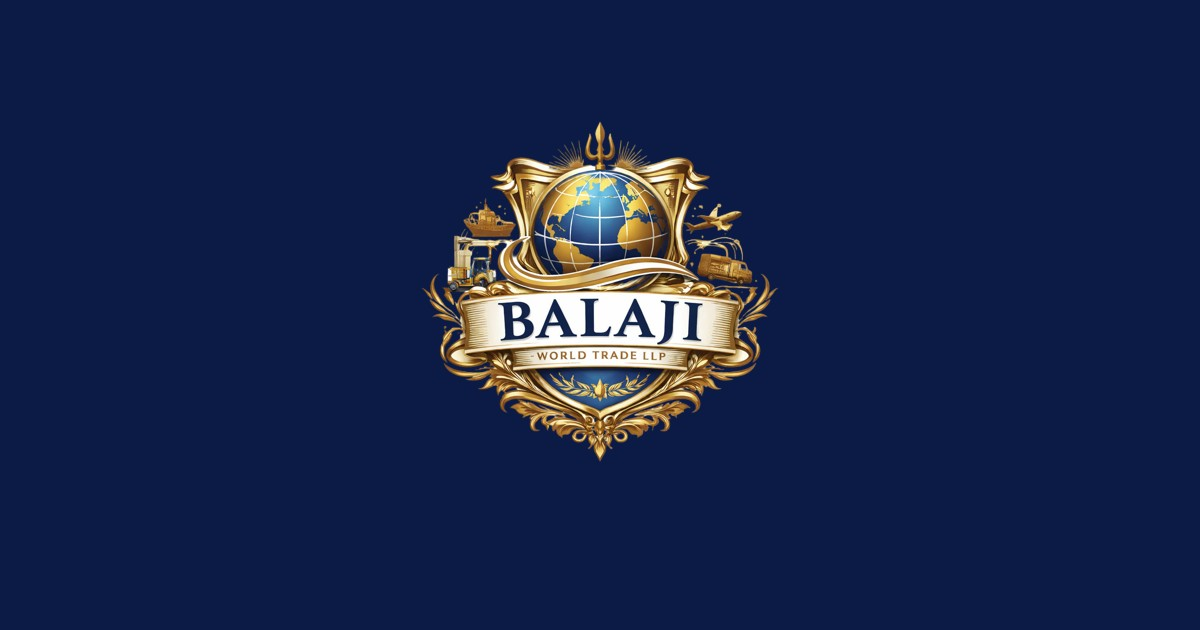
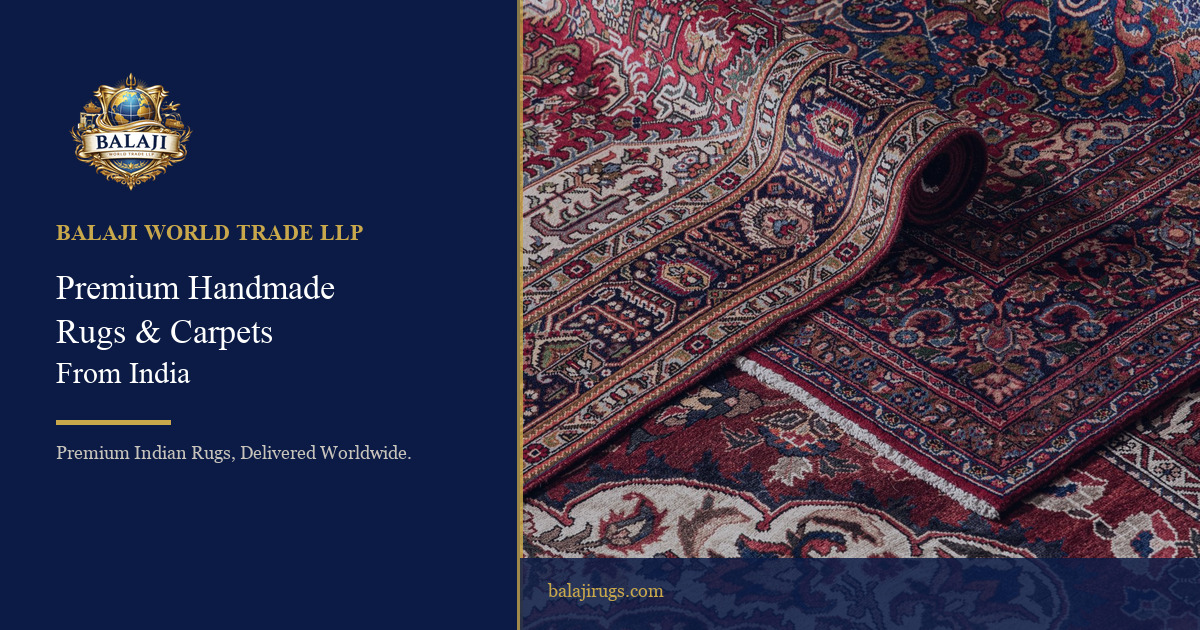
Update layout metadata for improved SEO and branding. Refine site title, description, and Open Graph properties to reflect Balaji World Trade LLP. Update og-image URL for consistency. Replace static URLs with dynamic siteUrl variable.

diff --git a/app/layout.tsx b/app/layout.tsx
@@ -22,10 +22,14 @@ const playfairDisplay = Playfair_Display({
 const googleSiteVerification = process.env.NEXT_PUBLIC_GOOGLE_SITE_VERIFICATION
 const bingSiteVerification = process.env.NEXT_PUBLIC_BING_SITE_VERIFICATION
 
+const siteUrl = 'https://balajirugs.com'
+const ogImageUrl = `${siteUrl}/og-image.jpg`
+
 export const metadata: Metadata = {
-  metadataBase: new URL('https://balajirugs.com'),
-  title: 'Premium Handmade Rugs & Carpets From India | Balaji Rugs',
-  description: 'Balaji Rugs exports premium handmade rugs and carpets from India. Explore hand knotted, wool, jute, kilim, flatweave, and custom rugs worldwide.',
+  metadataBase: new URL(siteUrl),
+  title: 'Balaji World Trade LLP | Premium Handmade Rugs & Carpets From India',
+  description:
+    'Luxury handmade rugs and carpets crafted in India and delivered worldwide. Explore hand knotted, wool, kilim, flatweave, jute, and custom rugs.',
   keywords: [
     'handmade rugs exporter india',
     'handmade carpets exporter india',
@@ -46,28 +50,31 @@ export const metadata: Metadata = {
     'premium handmade rugs and carpets exporter from India',
   ],
   alternates: {
-    canonical: 'https://balajirugs.com',
+    canonical: siteUrl,
   },
   openGraph: {
-    title: 'Premium Handmade Rugs & Carpets From India',
-    description: 'Luxury handmade rugs and carpets crafted in India and delivered worldwide.',
-    url: 'https://balajirugs.com',
+    title: 'Balaji World Trade LLP | Premium Handmade Rugs & Carpets From India',
+    description:
+      'Luxury handmade rugs and carpets crafted in India and delivered worldwide.',
+    url: siteUrl,
+    siteName: 'Balaji World Trade LLP',
+    locale: 'en_US',
     type: 'website',
-    siteName: 'Balaji Rugs',
     images: [
       {
-        url: '/og-image.jpg',
+        url: ogImageUrl,
         width: 1200,
         height: 630,
-        alt: 'Premium handmade rugs and carpets from India by Balaji Rugs',
+        alt: 'Balaji World Trade LLP Premium Handmade Rugs',
+        type: 'image/jpeg',
       },
     ],
   },
   twitter: {
     card: 'summary_large_image',
-    title: 'Premium Handmade Rugs & Carpets From India',
-    description: 'Luxury handmade rugs exported worldwide from India.',
-    images: ['/og-image.jpg'],
+    title: 'Balaji World Trade LLP',
+    description: 'Premium Handmade Rugs & Carpets From India',
+    images: [ogImageUrl],
   },
   verification: {
     google: googleSiteVerification,